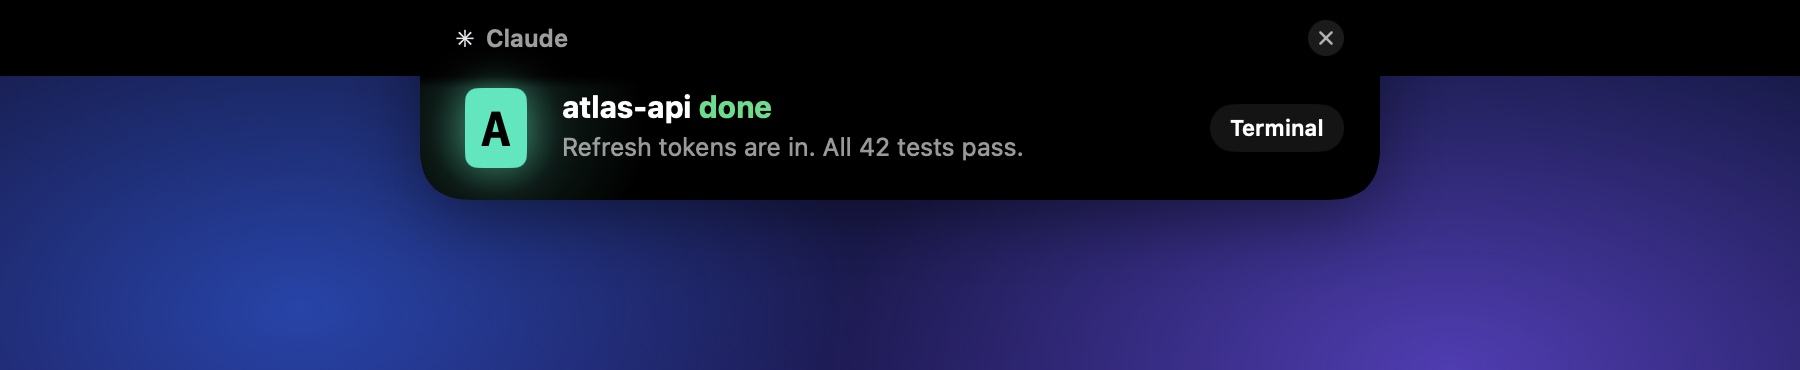
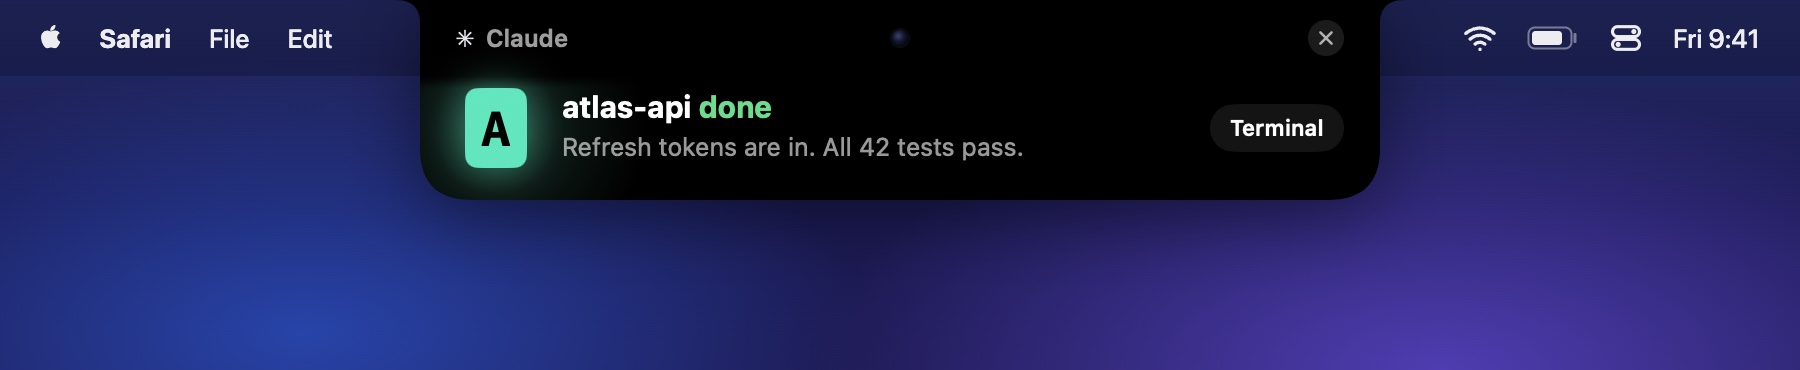
README screenshots: the drop hangs from the notch, with the menu bar beside it
A full-width black band hid where the drop comes from. The captures now sit on the top of a Mac screen:
wallpaper up to the edge, menus and status icons left and right, the camera in the middle.

Changed region(s): [[0.7467, 0.0, 1.0, 0.2081], [0.0, 0.0, 0.2489, 0.2081], [0.4978, 0.0892, 0.5289, 0.1189]]

diff --git a/docs/exec-plans/active/github-launch.md b/docs/exec-plans/active/github-launch.md
@@ -46,6 +46,10 @@ then do everything at once.
       PermissionRequest (hero), demo Stop (done drop), `--show launcher:disk util` and `450 + 20%`; window-only capture
       (`screencapture -l`) on a neutral wallpaper. The Agents tab and Home were left out: they show the user's real
       sessions, music and weather.
+- [x] USER (after launch): a full-width black band over the screenshots hid where the drop comes from. The captures
+      now sit on the top of a Mac screen: wallpaper up to the top edge, a menu bar with menus and status icons left and
+      right, a camera dot in the middle; the drop's ears meet the screen edge. Search and calculator canvases are
+      2040 px wide so the menu bar shows beside the wide panel. No full-width black band in README images.
 - [x] README and LICENSE (Graphyte Labs); SECURITY and the issue templates needed no change.
 - [x] `./release.sh` from the main checkout: v60 "Nook 1.60 — a new design", Nook.dmg + Nook.zip, notes rewritten for
       users (SHA-256 kept).
